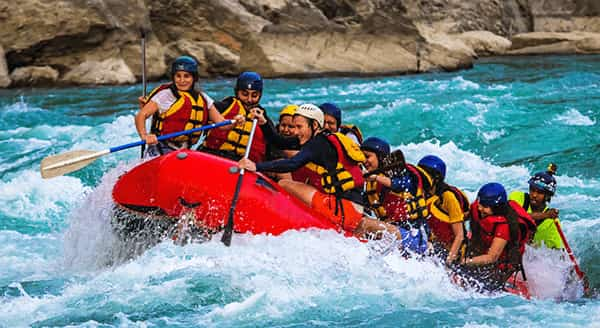
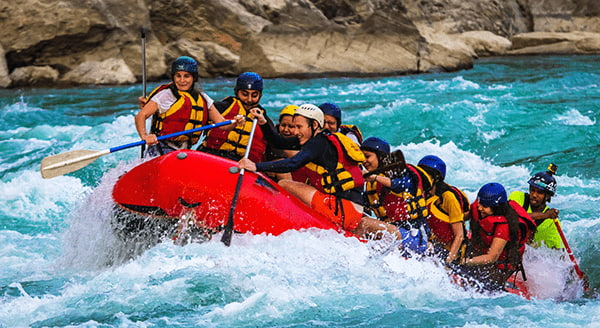
novas alt

diff --git a/wwr/about.html b/wwr/about.html
@@ -36,7 +36,7 @@
 
         <section>
             <h2>History</h2>
-            <p>Adventure Rapids was founded in 2015 by a group of friends passionate about nature
+            <p>Adventure Rapids was founded by a group of friends passionate about nature
                 and adventure.
                 What started as small rafting trips for family and friends quickly became a company
                 dedicated to
@@ -48,7 +48,7 @@
         </section>
 
         <footer>
-            <p>© 2015 Angola Rafting | Isabel Sampaio</p>
+            <p>© 2026 Angola Rafting | Isabel Sampaio</p>
             <nav class="socialmedia"><a href="https://www.facebook.com/"><img
                       src="images/facebook.svg" alt=""></a>
                 <a href="https://www.instagram.com/"><img src="images/instagram.svg"

diff --git a/wwr/styles/rafting.css b/wwr/styles/rafting.css
@@ -79,6 +79,7 @@ article {
 }
 
 .hero article img {
+    position: absolute;
     float: right;
     width: 125px;
     border: 1px solid #d2c3c3;
